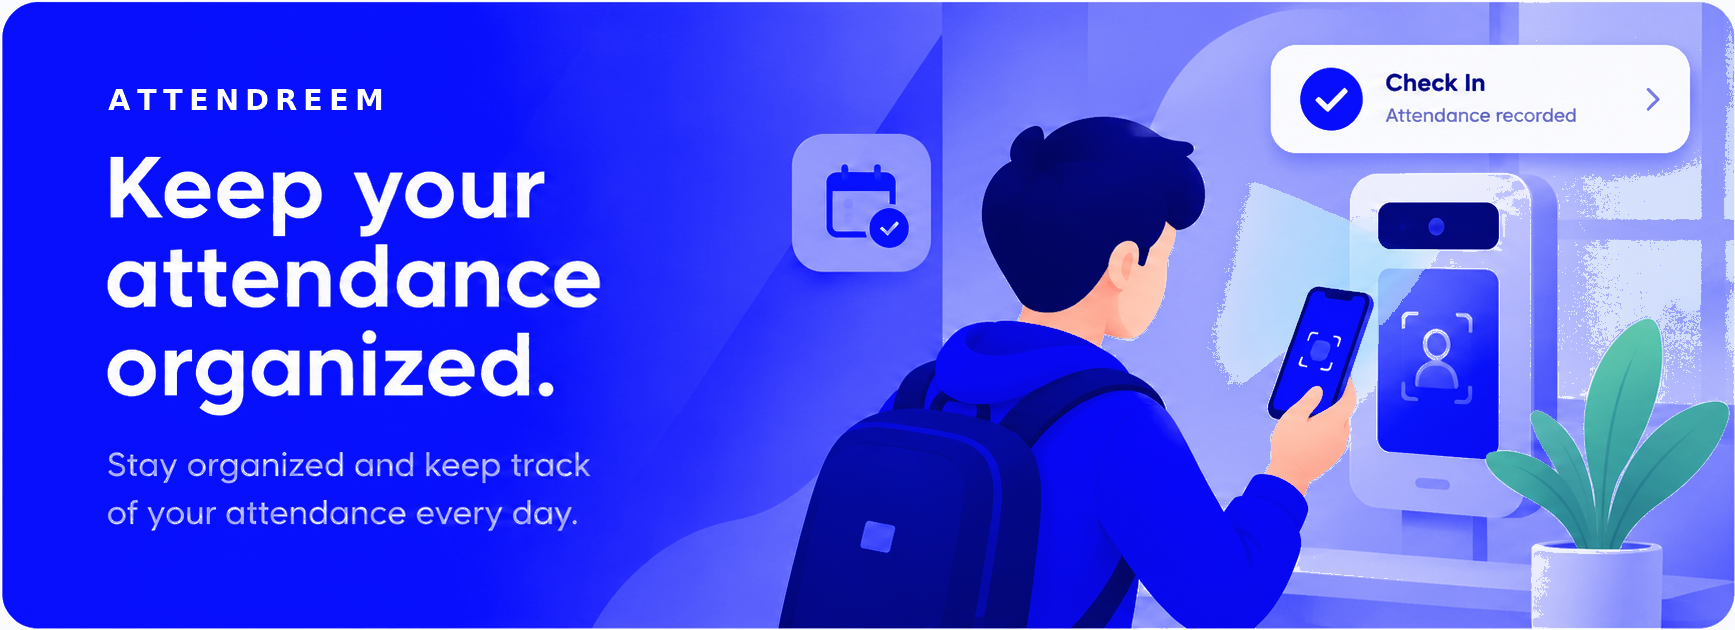
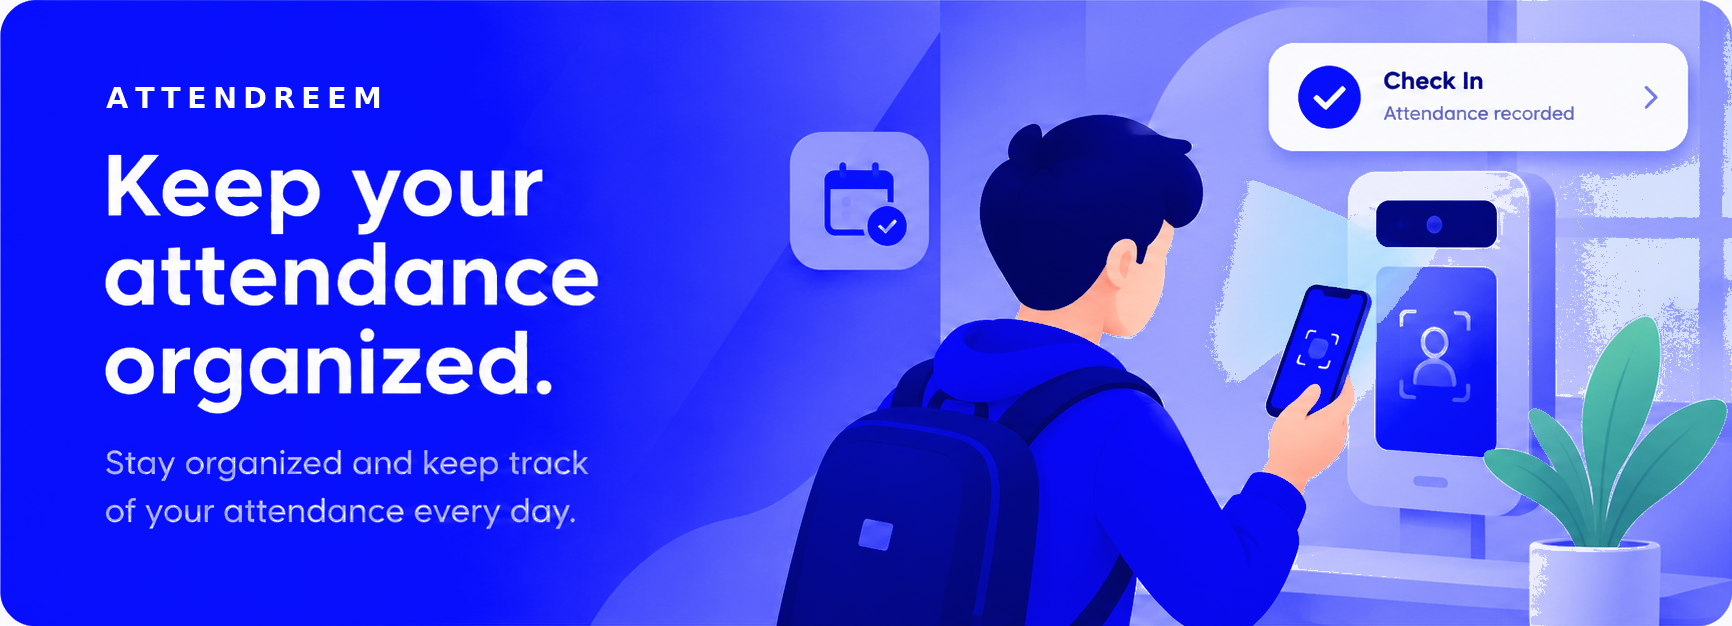
Trim leftover 1-2px white hairline from hero image edges
Claude-Session: https://claude.ai/code/session_015ZPRDnCdcY8VwScWJEnE8a

diff --git a/style.css b/style.css
@@ -48,7 +48,7 @@ button,input,select,textarea{font-family:inherit}
 
 /* HOME HERO */
 .attendance-hero{width:100%;overflow:hidden;border-radius:25px;background:linear-gradient(135deg,#1309f5,#5752fa);box-shadow:0 12px 30px rgba(19,9,245,.2)}
-.hero-full-image{position:relative;display:block;width:100%;aspect-ratio:1735/630}
+.hero-full-image{position:relative;display:block;width:100%;aspect-ratio:1732/626}
 .hero-full-image img{width:100%;height:100%;display:block;object-fit:cover;opacity:0;transition:opacity .35s ease}
 .hero-full-image img.loaded{opacity:1}
 .hero-checkin-link{position:absolute;top:17.5%;right:5.5%;width:23%;height:13%;display:block;background:transparent;cursor:pointer}
